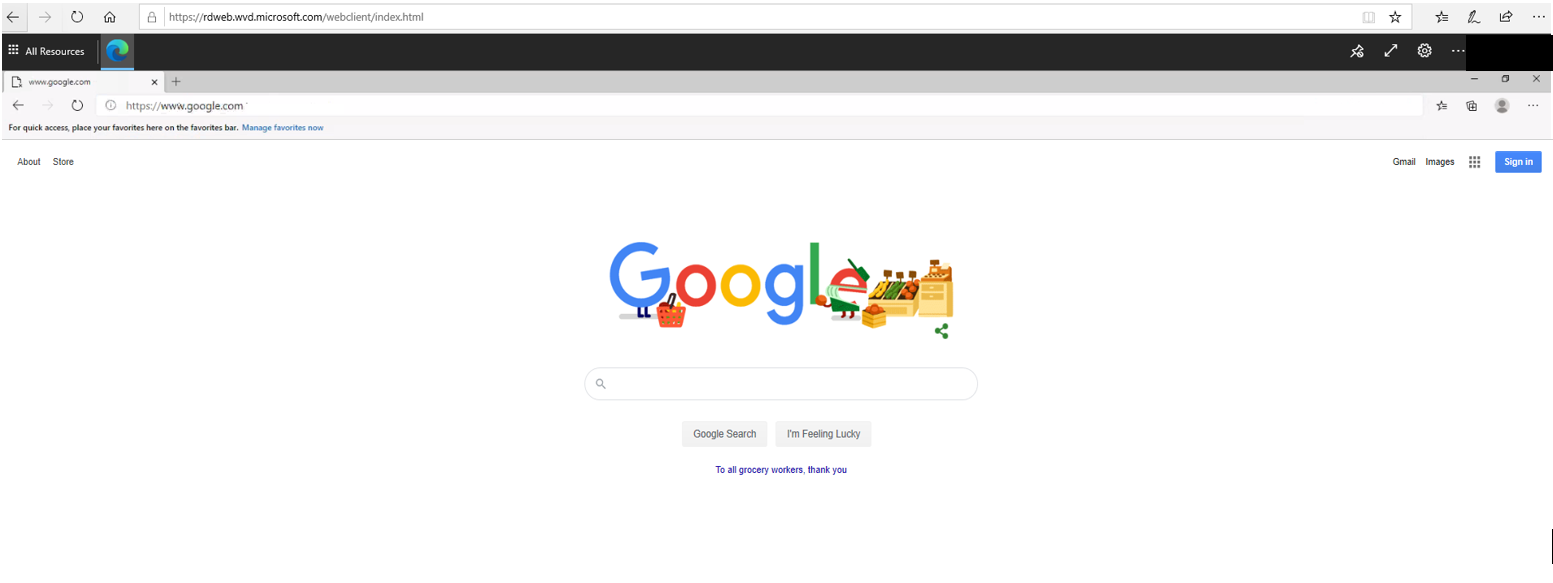
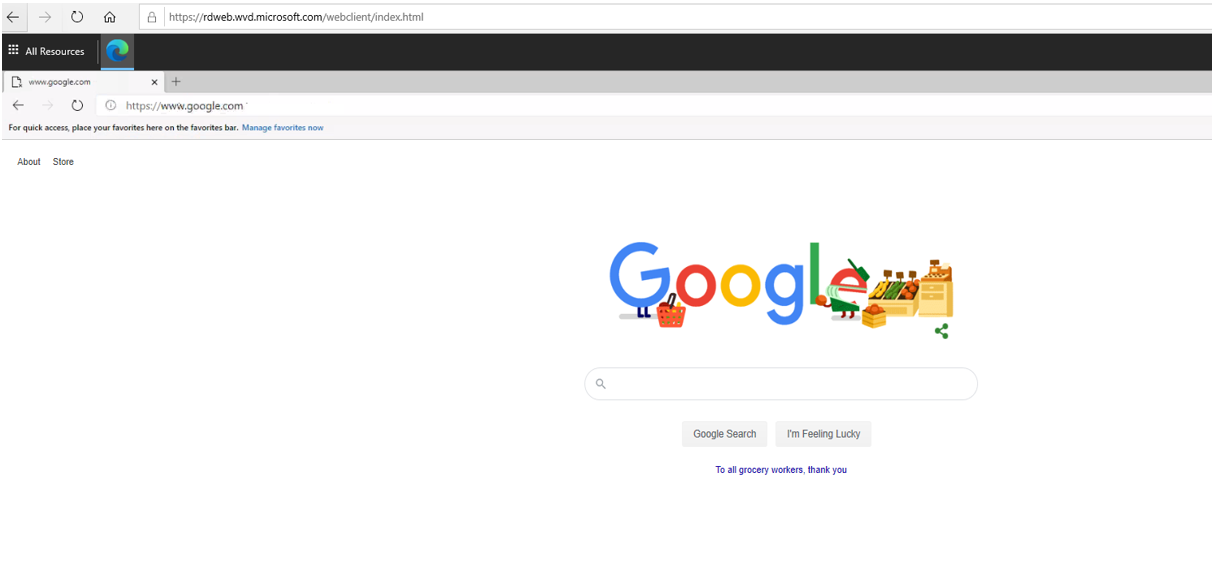
updated post

diff --git a/_posts/2020-04-13-Azure-VDI.md b/_posts/2020-04-13-Azure-VDI.md
@@ -24,7 +24,7 @@ This article will go through the setup of a basic published desktop / app.
 
 ### High Level Diagram
 
-![Screenshot](screenshots/VDI_Overview.png)
+![screenshot](/screenshots/VDI_Overview.png)
 
 ### Admin Consent
 
@@ -57,7 +57,7 @@ This article will go through the setup of a basic published desktop / app.
 
 - From the Azure subscription -> Create a resource -> Windows Virtual Desktop - Provision a host pool
 
-![Screenshot](screenshots/WVD_CreatePool.png)
+![screenshot](/screenshots/WVD_CreatePool.png)
 
 - Basics\
     Subscription:  [subscription name]\
@@ -98,7 +98,7 @@ This article will go through the setup of a basic published desktop / app.
 
 Once the deployment completes you can login from a browser [Windows Virtual Desktop Web Client](https://rdweb.wvd.microsoft.com/webclient/index.html)
 
-![Screenshot](screenshots/VDI_PortalDesktop.png)
+![screenshot](/screenshots/VDI_PortalDesktop.png)
 
 
 ### Publish an Application (Edge Browser)
@@ -123,17 +123,17 @@ Rather than making an entire desktop avaliable we can publish specific applicati
     Add-RdsAppGroupUser "VDI-Tenant" "VDI-POOL" "APPS" -UserPrincipalName "Jane_Doe@example.com" #use a differenent account than the one assigned to the desktop
     ```
 
-![Screenshot](screenshots/VDI_PortalDesktop.png)
+![screenshot](/screenshots/VDI_PortalEdge.png)
 
 
 Browser within a browser!
 
-![Screenshot](screenshots/VDI_Edge.png)
+![screenshot](/screenshots/VDI_Edge.png)
 
 
 ### Usefull Commands
 
-#Get RDSHostPool (The Root object for VDI Deployment)
+Get RDSHostPool (The Root object for VDI Deployment)
 ```powershell
 Get-RDSHostPool "VDI-Tenant"
 ```
